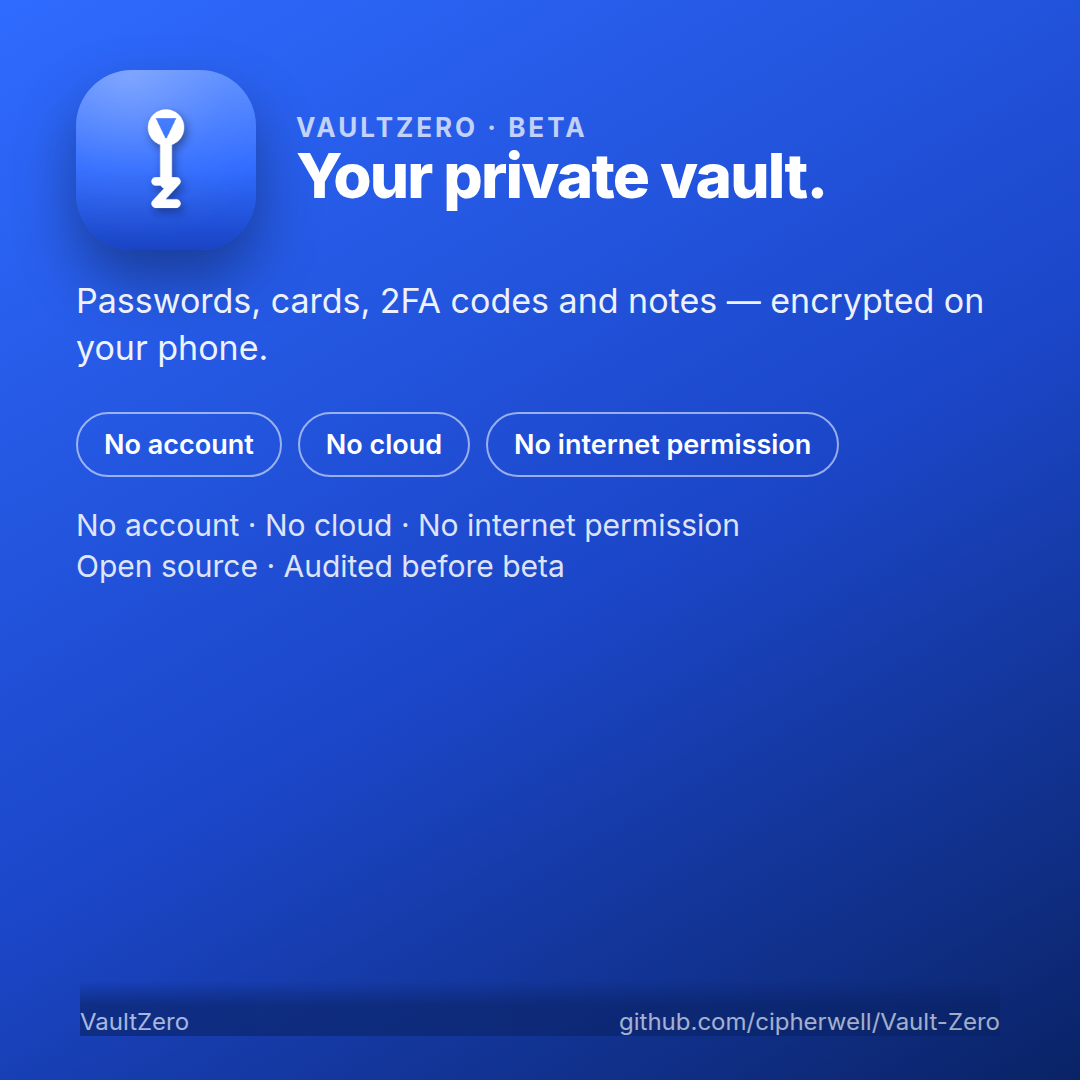
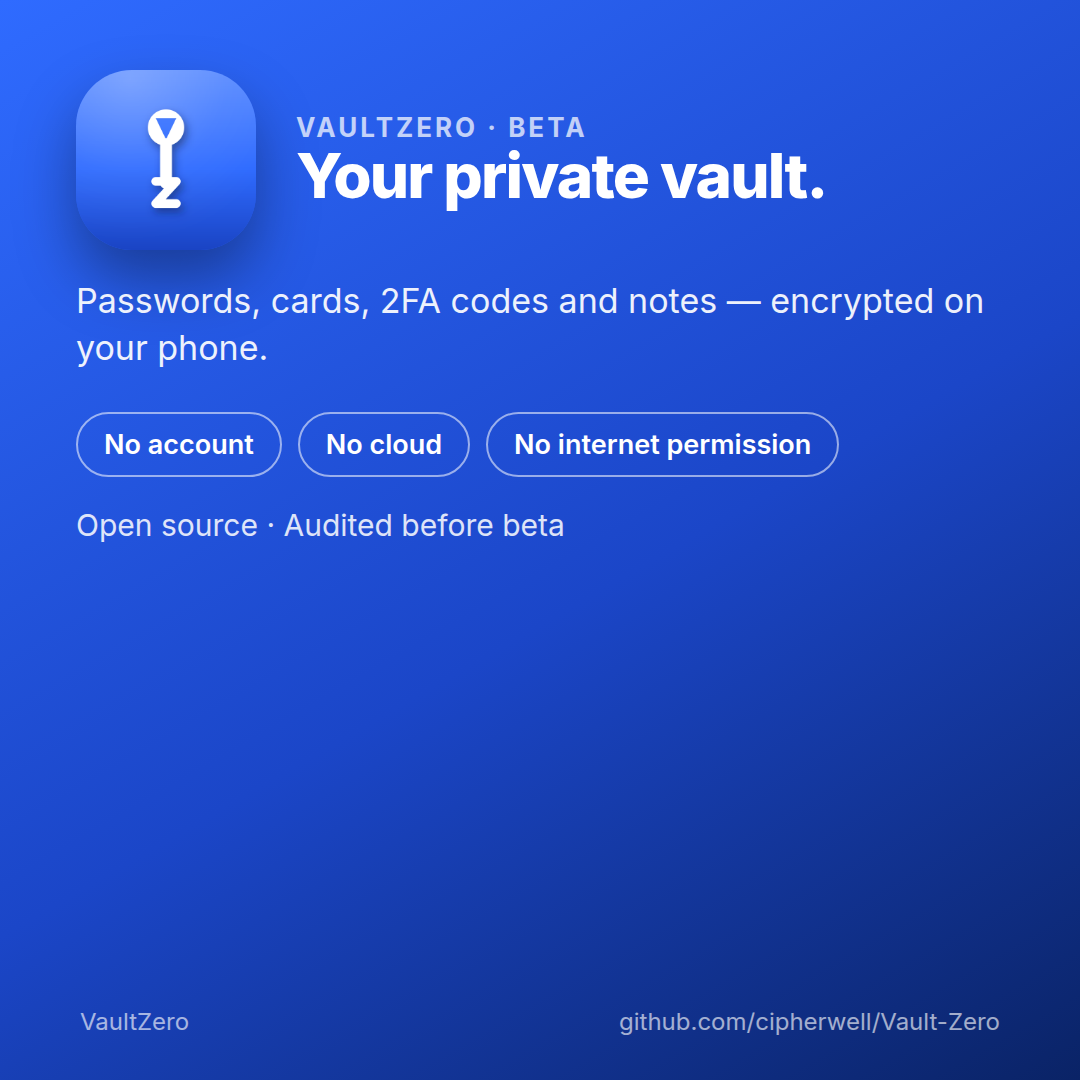
docs(social): clean square summary layout

Changed region(s): [[0.0611, 0.4583, 0.6722, 0.55], [0.0611, 0.9167, 0.6417, 0.9778]]

diff --git a/docs/guide/build_social.py b/docs/guide/build_social.py
@@ -205,8 +205,8 @@ def build(lang: str, target: Path) -> None:
       <h2 style="font-size:62px">{t['cover_h1']}</h2></div></div>
     <p class="lead" style="font-size:34px">{t['cover_lead']}</p>
     <div class="chips">{"".join(f'<span class="chip">{c}</span>' for c in t['chips'])}</div>
-    <p class="lead" style="font-size:30px;opacity:.85">No account · No cloud · No internet permission<br>Open source · Audited before beta</p>
-    <div class="footer"><span>VaultZero</span><span>github.com/cipherwell/Vault-Zero</span></div>
+    <p class="lead" style="font-size:30px;opacity:.85">Open source · Audited before beta</p>
+    <div class="footer" style="background:none"><span>VaultZero</span><span>github.com/cipherwell/Vault-Zero</span></div>
     </section></body></html>""" if not es else f"""<!doctype html><html><head><meta charset="utf-8"><style>{CSS}
     html,body{{width:1080px;height:1080px}} .slide{{height:1080px;padding:70px 76px}}
     </style></head><body><section class="slide dark">
@@ -216,8 +216,8 @@ def build(lang: str, target: Path) -> None:
       <h2 style="font-size:62px">{t['cover_h1']}</h2></div></div>
     <p class="lead" style="font-size:34px">{t['cover_lead']}</p>
     <div class="chips">{"".join(f'<span class="chip">{c}</span>' for c in t['chips'])}</div>
-    <p class="lead" style="font-size:30px;opacity:.85">Sin cuenta · Sin nube · Sin permiso de internet<br>Código abierto · Auditada antes de la beta</p>
-    <div class="footer"><span>VaultZero</span><span>github.com/cipherwell/Vault-Zero</span></div>
+    <p class="lead" style="font-size:30px;opacity:.85">Código abierto · Auditada antes de la beta</p>
+    <div class="footer" style="background:none"><span>VaultZero</span><span>github.com/cipherwell/Vault-Zero</span></div>
     </section></body></html>"""
     sq_html = OUT / ("square-es.html" if es else "square-en.html")
     sq_html.write_text(square, encoding="utf-8")
